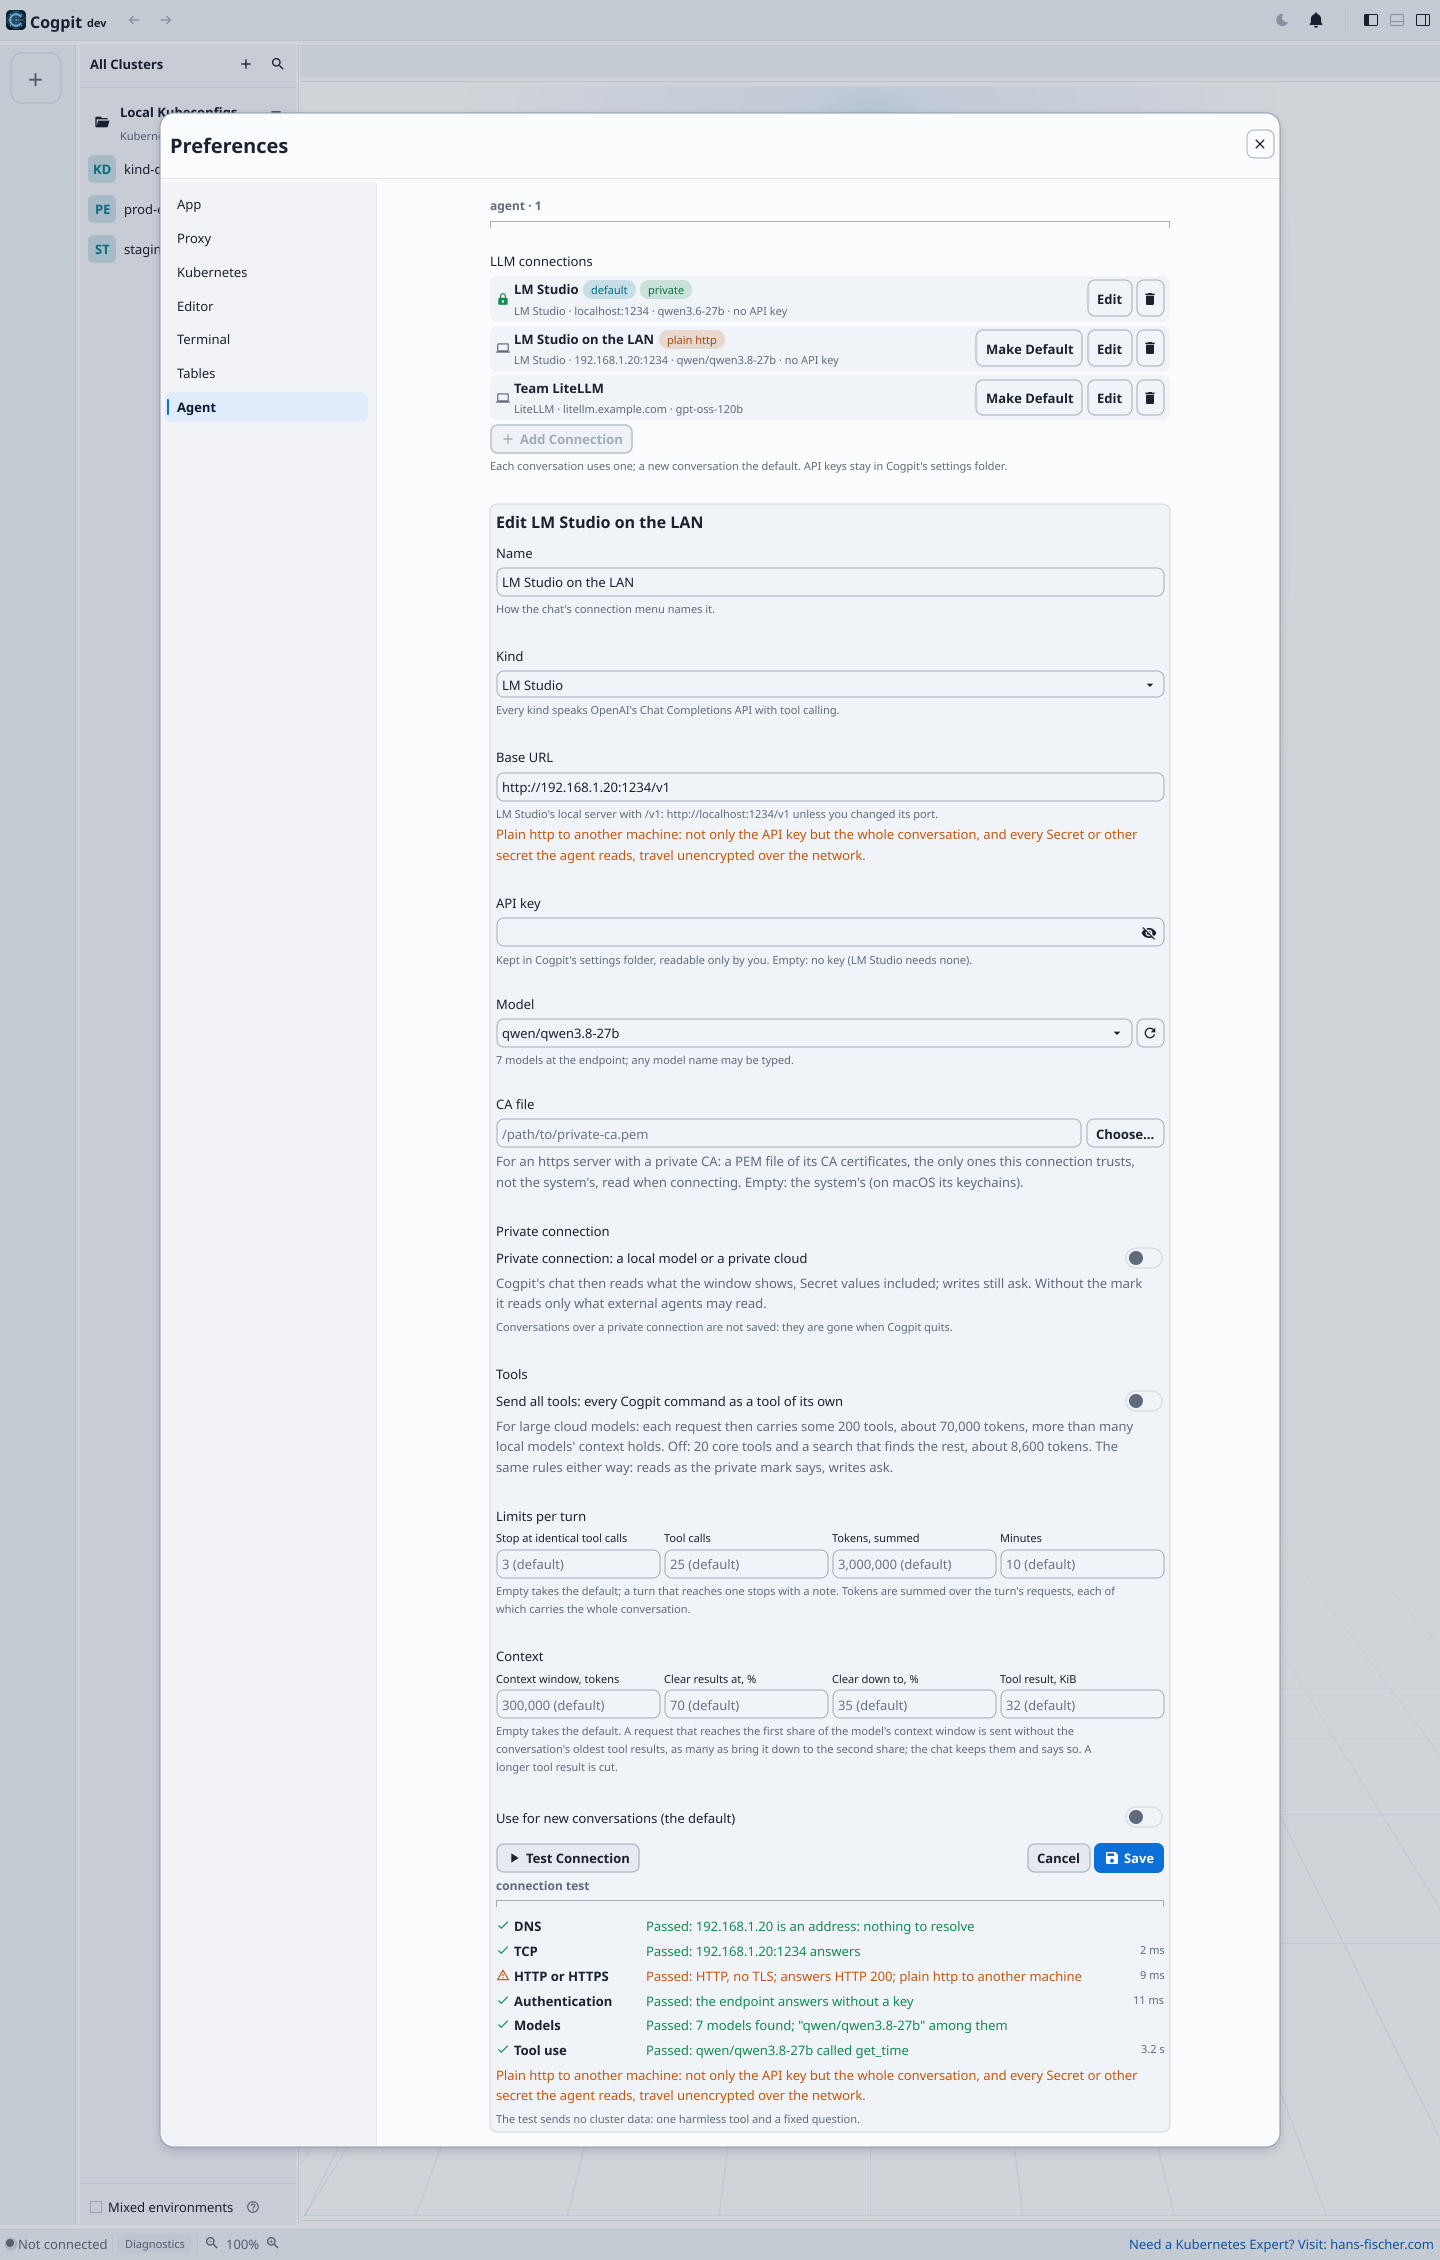
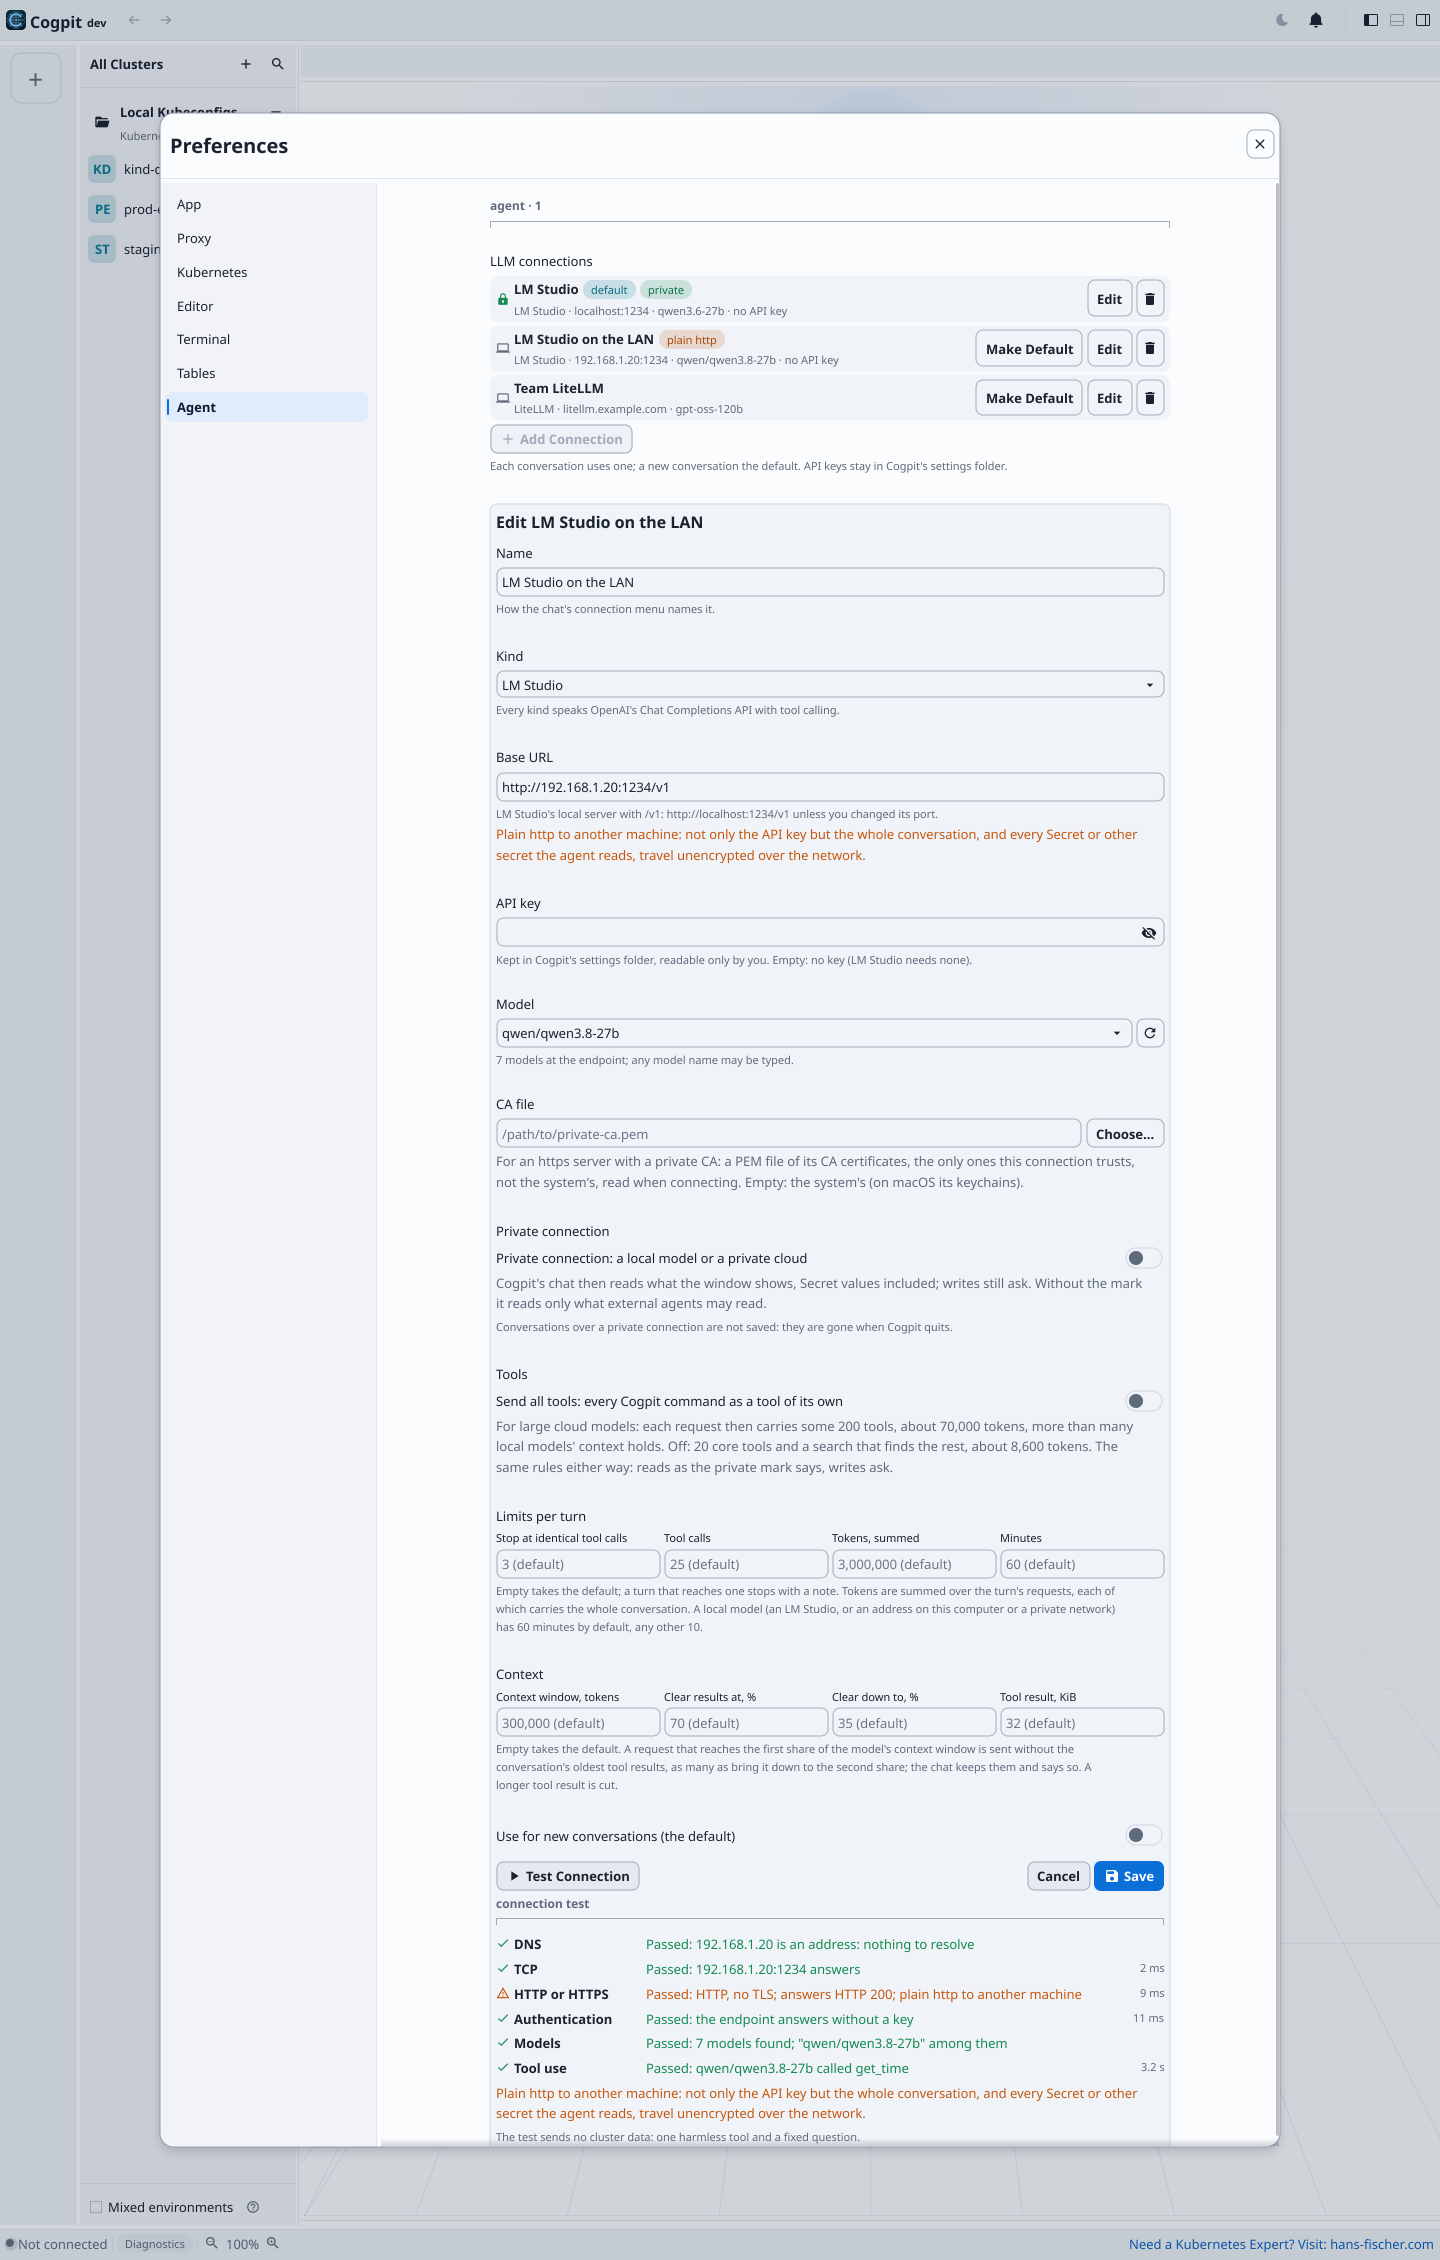
feat(agent): a turn over a local model has 60 minutes by default
A local model reads its prompt at the speed of the user's hardware: at
some 150 tokens a second the 105,000 tokens a clearing leaves of a
context window of 300,000 take twelve minutes, more than the ten a turn
had.

A connection that is an LM Studio, or whose base URL is on this computer
or a private network, now has 60 minutes by default; any other keeps 10,
and a limit set for the connection stays. The form's Minutes field shows
the default of the kind and address typed (D-169).

Changed region(s): [[0.3438, 0.7124, 0.8125, 0.9602], [0.7188, 0.8053, 0.8125, 0.8363], [0.7812, 0.8673, 0.8125, 0.8982]]

diff --git a/internal/ui/fyneui/preferences_agent.go b/internal/ui/fyneui/preferences_agent.go
@@ -361,7 +361,7 @@ func newAgentForm(a *agentPrefs, c engine.ChatConnection) *agentForm {
 	textW := settingsColumn - 4*p.sh.app.Settings().Theme().Size(theme.SizeNameInnerPadding)
 	f.textW = textW
 	f.plainWarn = newParagraph(engine.ChatPlainHTTPWarning, colorStatusWarning, textW)
-	f.baseURL.OnChanged = func(string) { f.showPlainWarning() }
+	f.baseURL.OnChanged = func(string) { f.showPlainWarning(); f.showMinutesDefault() }
 	f.caFile = f.field(newFieldEntry())
 	placeholder, _ := caFileExamples(runtime.GOOS)
 	f.caFile.SetPlaceHolder(placeholder)
@@ -402,7 +402,7 @@ func newAgentForm(a *agentPrefs, c engine.ChatConnection) *agentForm {
 	f.allTools.SetChecked(c.AllTools)
 
 	lim := c.Limits
-	def := engine.DefaultChatLimits
+	def := c.DefaultLimits()
 	values := [4]int{lim.RepeatStop, lim.MaxToolCalls, lim.MaxTokens, int(lim.MaxDuration / time.Minute)}
 	defaults := [4]int{def.RepeatStop, def.MaxToolCalls, def.MaxTokens, int(def.MaxDuration / time.Minute)}
 	limitLabels := [4]string{"Stop at identical tool calls", "Tool calls", "Tokens, summed", "Minutes"}
@@ -411,6 +411,7 @@ func newAgentForm(a *agentPrefs, c engine.ChatConnection) *agentForm {
 		[]string{"Context window, tokens", "Clear results at, %", "Clear down to, %", "Tool result, KiB"},
 		[]int{lim.ContextWindow, lim.ClearAt, lim.ClearTo, lim.MaxToolResultKiB},
 		[]int{def.ContextWindow, def.ClearAt, def.ClearTo, def.MaxToolResultKiB})
+	f.showMinutesDefault() // by the form's kind and base URL, a new connection's prefill included
 
 	f.def = newLabelledSwitch("Use for new conversations (the default)", nil)
 	f.def.SetChecked(c.Default)
@@ -458,7 +459,8 @@ func newAgentForm(a *agentPrefs, c engine.ChatConnection) *agentForm {
 // Help of the form's two rows of numbers.
 const (
 	limitsHelp = "Empty takes the default; a turn that reaches one stops with a note. Tokens are summed over the turn's " +
-		"requests, each of which carries the whole conversation."
+		"requests, each of which carries the whole conversation. A local model (an LM Studio, or an address on this " +
+		"computer or a private network) has 60 minutes by default, any other 10."
 	contextHelp = "Empty takes the default. A request that reaches the first share of the model's context window is sent " +
 		"without the conversation's oldest tool results, as many as bring it down to the second share; the chat keeps them " +
 		"and says so. A longer tool result is cut."
@@ -570,6 +572,17 @@ func (f *agentForm) kindChanged(label string) {
 		}
 		f.lastKind = k.kind
 	}
+	f.showMinutesDefault()
+}
+
+// showMinutesDefault writes the default of a turn's minutes as the form's kind and base URL give
+// it: a local model's turn has longer (D-169).
+func (f *agentForm) showMinutesDefault() {
+	if f.limits[3] == nil {
+		return
+	}
+	d := engine.ChatConnection{Kind: f.lastKind, BaseURL: f.baseURL.Text}.DefaultLimits()
+	f.limits[3].SetPlaceHolder(formatCount(int64(d.MaxDuration/time.Minute)) + " (default)")
 }
 
 // showKeyState says what saving does with the key.

diff --git a/internal/engine/chatlimits_test.go b/internal/engine/chatlimits_test.go
@@ -43,6 +43,51 @@ func TestChatLimitsDefaults(t *testing.T) {
 	}
 }
 
+// TestLocalConnectionsHaveLongerTurns (D-169): a turn over a local model, an LM Studio or a base URL
+// on this machine or a private network, has 60 minutes by default and any other 10; a limit the
+// user set stays; nothing else of the defaults differs.
+func TestLocalConnectionsHaveLongerTurns(t *testing.T) {
+	for _, c := range []struct {
+		kind  ChatConnectionKind
+		url   string
+		local bool
+	}{
+		{ChatLMStudio, "http://localhost:1234/v1", true},
+		{ChatLMStudio, "https://studio.example.com/v1", true},
+		{ChatOpenAI, "http://localhost:11434/v1", true},
+		{ChatOpenAI, "http://127.0.0.1:8080/v1", true},
+		{ChatOpenAI, "http://[::1]:8080/v1", true},
+		{ChatOpenAI, "http://192.168.1.20:1234/v1", true},
+		{ChatLiteLLM, "http://10.0.3.7:4000", true},
+		{ChatOpenWebUI, "http://172.16.0.5:3000", true},
+		{ChatOpenAI, "http://studio.local:1234/v1", true},
+		{ChatOpenAI, "http://169.254.10.1/v1", true},
+		{ChatOpenAI, "https://api.openai.com/v1", false},
+		{ChatLiteLLM, "https://litellm.example.com", false},
+		{ChatOpenAI, "http://8.8.8.8/v1", false},
+		{ChatOpenAI, "http://172.32.0.1/v1", false},
+		{ChatOpenAI, "http://notlocal.localhost.example.com/v1", false},
+		{ChatOpenAI, "", false},
+		{ChatOpenAI, "://", false},
+	} {
+		conn := ChatConnection{Kind: c.kind, BaseURL: c.url}
+		want := DefaultChatLimits
+		if c.local {
+			want.MaxDuration = LocalChatMaxDuration
+		}
+		if conn.Local() != c.local || conn.DefaultLimits() != want || conn.EffectiveLimits() != want {
+			t.Errorf("%s %q: local %v, limits %+v; want local %v, %+v", c.kind, c.url, conn.Local(), conn.EffectiveLimits(), c.local, want)
+		}
+	}
+	if LocalChatMaxDuration != 60*time.Minute || DefaultChatLimits.MaxDuration != 10*time.Minute {
+		t.Errorf("the defaults: %s local, %s else", LocalChatMaxDuration, DefaultChatLimits.MaxDuration)
+	}
+	set := ChatConnection{Kind: ChatLMStudio, BaseURL: "http://localhost:1234/v1", Limits: ChatLimits{MaxDuration: 3 * time.Minute, MaxToolCalls: 7}}
+	if got := set.EffectiveLimits(); got.MaxDuration != 3*time.Minute || got.MaxToolCalls != 7 || got.MaxTokens != DefaultChatLimits.MaxTokens {
+		t.Errorf("a set limit: %+v", got)
+	}
+}
+
 // TestChatLimitsValidate: negative limits, shares above 100 percent and a ClearTo not below its
 // ClearAt are refused; the shares each on their own are held against the other's default.
 func TestChatLimitsValidate(t *testing.T) {

diff --git a/internal/engine/chat.go b/internal/engine/chat.go
@@ -166,10 +166,51 @@ type ChatLimits struct {
 var DefaultChatLimits = ChatLimits{RepeatStop: 3, MaxToolCalls: 25, MaxTokens: 3_000_000, MaxDuration: 10 * time.Minute,
 	ContextWindow: 300_000, ClearAt: 70, ClearTo: 35, MaxToolResultKiB: 32}
 
+// LocalChatMaxDuration is a turn's default time limit over a local model (ChatConnection.Local,
+// D-169): one that reads some 150 tokens a second needs twelve minutes for the 105,000 tokens a
+// clearing leaves of a context window of 300,000 (D-167).
+const LocalChatMaxDuration = 60 * time.Minute
+
+// Local reports whether the connection's model runs on hardware of the user's own, as far as the
+// connection tells: an LM Studio, or a base URL on this machine or a private network (localhost, a
+// name under .local, a loopback, private or link-local address). A name that only resolves to such
+// an address is not looked up.
+func (c ChatConnection) Local() bool {
+	if c.Kind == ChatLMStudio {
+		return true
+	}
+	u, err := url.Parse(strings.TrimSpace(c.BaseURL))
+	if err != nil || u.Host == "" {
+		return false
+	}
+	host := strings.TrimSuffix(strings.ToLower(u.Hostname()), ".")
+	if host == "localhost" || strings.HasSuffix(host, ".local") {
+		return true
+	}
+	ip := net.ParseIP(host)
+	return ip != nil && (ip.IsLoopback() || ip.IsPrivate() || ip.IsLinkLocalUnicast())
+}
+
+// DefaultLimits are the defaults of the connection's limits: DefaultChatLimits, with
+// LocalChatMaxDuration for a local model.
+func (c ChatConnection) DefaultLimits() ChatLimits {
+	d := DefaultChatLimits
+	if c.Local() {
+		d.MaxDuration = LocalChatMaxDuration
+	}
+	return d
+}
+
+// EffectiveLimits are the limits a turn over the connection runs with: its own, every zero field
+// from DefaultLimits.
+func (c ChatConnection) EffectiveLimits() ChatLimits { return c.Limits.over(c.DefaultLimits()) }
+
 // WithDefaults returns l with every zero field set from DefaultChatLimits. A ClearTo that is not
 // below ClearAt (one of them set, the other its default) becomes half of ClearAt.
-func (l ChatLimits) WithDefaults() ChatLimits {
-	d := DefaultChatLimits
+func (l ChatLimits) WithDefaults() ChatLimits { return l.over(DefaultChatLimits) }
+
+// over returns l with every zero field set from d.
+func (l ChatLimits) over(d ChatLimits) ChatLimits {
 	if l.RepeatStop > 0 {
 		d.RepeatStop = l.RepeatStop
 	}

diff --git a/internal/ui/fyneui/preferences_agent_test.go b/internal/ui/fyneui/preferences_agent_test.go
@@ -100,10 +100,28 @@ func TestAgentPreferencesKeySemantics(t *testing.T) {
 	if f.baseURL.Text != "http://localhost:1234/v1" || f.kind.Selected != "LM Studio" {
 		t.Fatalf("a new connection: %q, %q", f.kind.Selected, f.baseURL.Text)
 	}
+	// A turn's minutes by default (D-169): 60 for a local model, an LM Studio or an address on this
+	// computer or a private network, 10 for any other; the field says which as kind and URL change.
+	minutes := func() string { return f.limits[3].PlaceHolder }
+	if minutes() != "60 (default)" {
+		t.Errorf("a new LM Studio connection's minutes: %q", minutes())
+	}
 	f.kind.SetSelected("Open WebUI")
 	if f.baseURL.Text != "" || !strings.Contains(f.urlHint.text, "/api") {
 		t.Errorf("Open WebUI: the URL %q, hint %q", f.baseURL.Text, f.urlHint.text)
 	}
+	if minutes() != "10 (default)" {
+		t.Errorf("an Open WebUI without an address: %q", minutes())
+	}
+	f.baseURL.SetText("http://192.168.1.5:3000")
+	if minutes() != "60 (default)" {
+		t.Errorf("an Open WebUI on a private network: %q", minutes())
+	}
+	f.baseURL.SetText("https://chat.example.com")
+	if minutes() != "10 (default)" {
+		t.Errorf("an Open WebUI on the internet: %q", minutes())
+	}
+	f.baseURL.SetText("")
 	f.kind.SetSelected("LM Studio")
 	test.Type(f.name, "Mac Studio")
 	f.private.SetChecked(true)

diff --git a/internal/agent/turn.go b/internal/agent/turn.go
@@ -99,7 +99,7 @@ func (a *Agent) send(id string, cut int, msg engine.ChatUserMessage) error {
 	if cut >= 0 {
 		c.cut(cut)
 	}
-	limits := conn.Limits.WithDefaults()
+	limits := conn.EffectiveLimits()
 	if c.info.ConnectionID != conn.ID {
 		c.calBytes, c.calTokens = 0, 0 // another model counts tokens its own way
 	}
